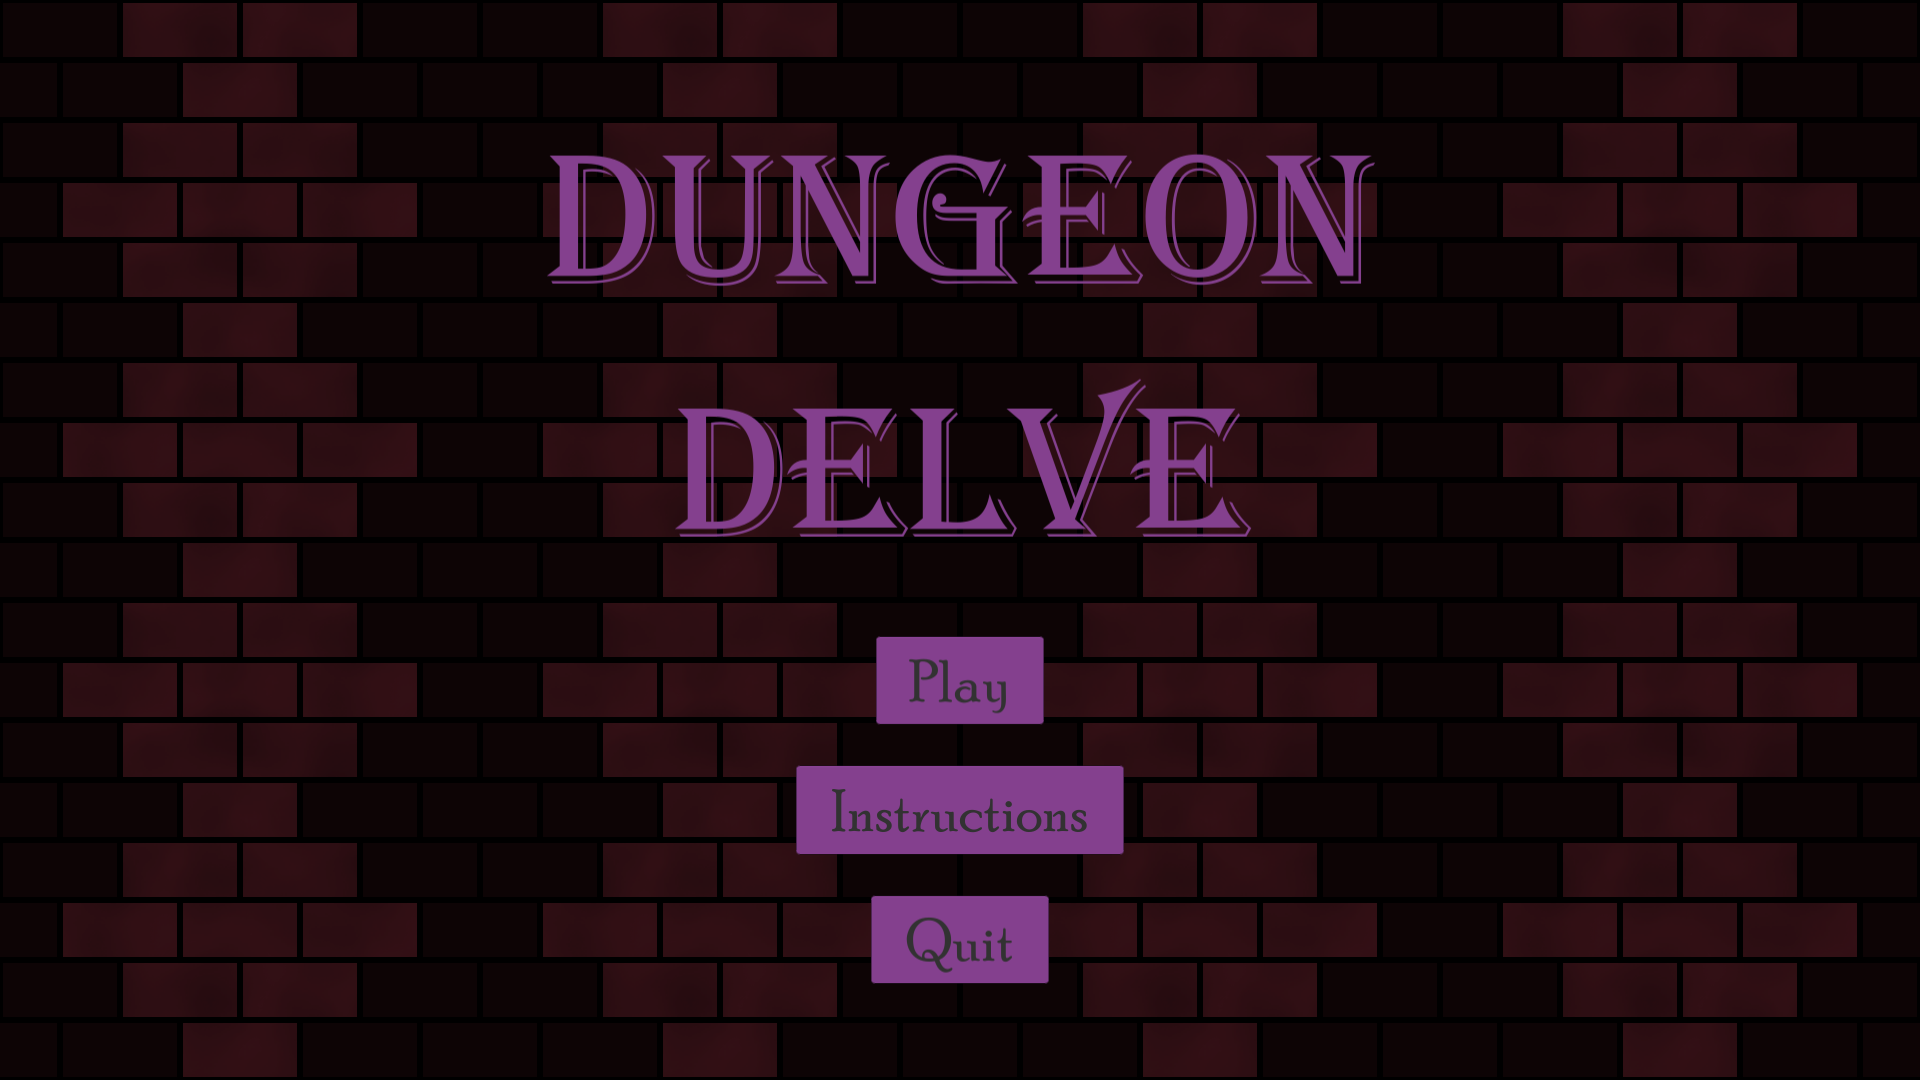
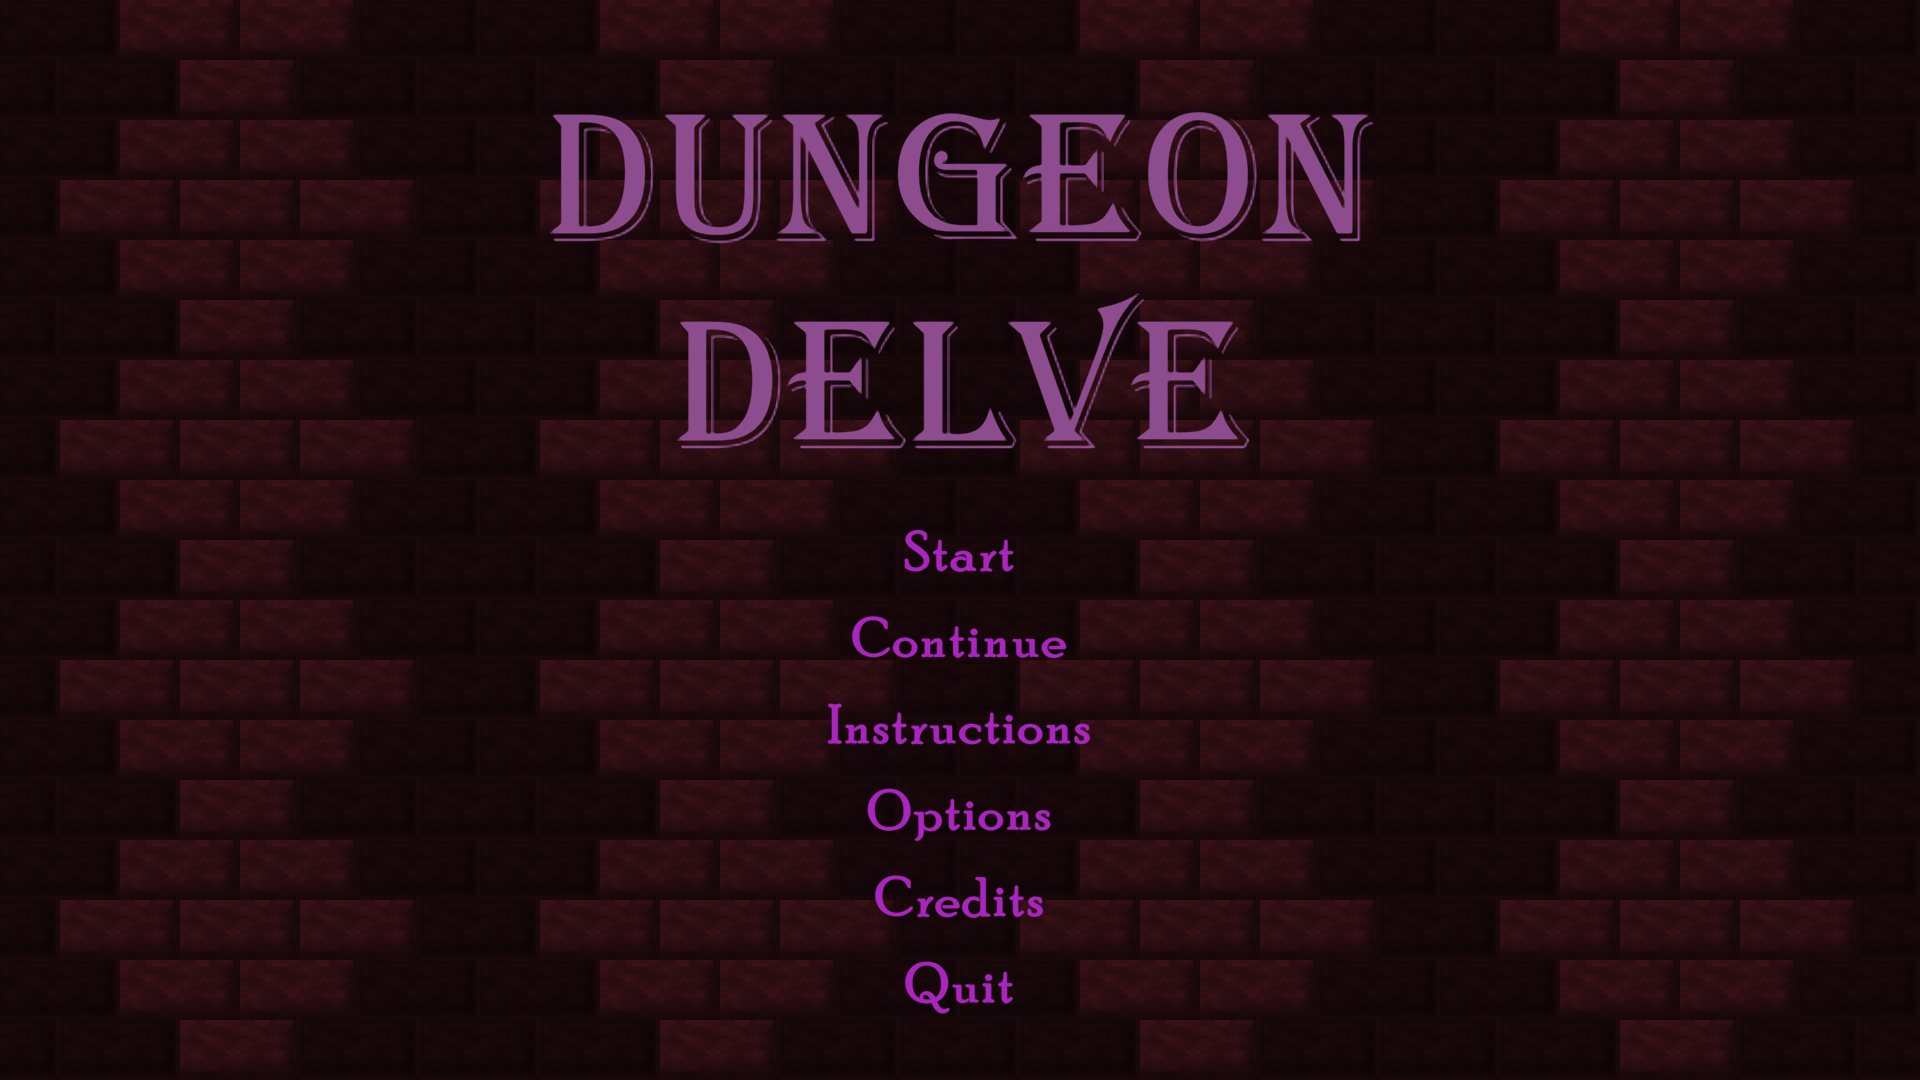
Update README.md and replace screenshots

diff --git a/README.md b/README.md
@@ -4,20 +4,30 @@ The dim corridors wind aimlessly, looping upon themselves. You wonder when someo
 Will you see your way through the entire dungeon, finding every key needed to leave?
 
 * WASD or arrow keys to move
-* Left-Shift to sprint
+* Shift to sprint
 * Left-click to drop a breadcrumb
+    * (1, 2, 3 to choose color)
 * E to pick up breadcrumbs in front of you
 * Walk over a key to pick it up
 * *Collect all keys to clear the dungeon!*
+<!-- -->
+* M to view the map
+* F1 to view dungeon generation values
 
-Art assets are my own.<br>
-First person controller is from Unity Standard Assets.<br>
-Dungeon generator and game code are my own.<br>
-<br><br>
+Programming, music, sounds, art, and design by Jonathan Brown aka. Kilreth<br>
+Made in Unity 2019.2.6f1<br>
+Music composed in FL Studio 20<br>
+Music available for download at soundcloud.com/Kilreth/albums<br>
+<br>
 ![Alt text](Images/MainMenu.png?raw=true)
-![Alt text](Images/Gameplay2.png?raw=true)
+![Alt text](Images/CustomizeDungeon.png?raw=true)
 ![Alt text](Images/Gameplay1.png?raw=true)
+![Alt text](Images/Gameplay2.png?raw=true)
 ![Alt text](Images/Gameplay3.png?raw=true)
 ![Alt text](Images/Gameplay4.png?raw=true)
-![Alt text](Images/Map_expanded.png?raw=true)
-![Alt text](Images/Map_standard.png?raw=true)
+![Alt text](Images/WinScreen.png?raw=true)
+![Alt text](Images/DungeonStandard.png?raw=true)
+![Alt text](Images/DungeonExpanded.png?raw=true)
+![Alt text](Images/DungeonNeedle.png?raw=true)
+![Alt text](Images/DungeonWarped.png?raw=true)
+![Alt text](Images/DungeonMaze.png?raw=true)
